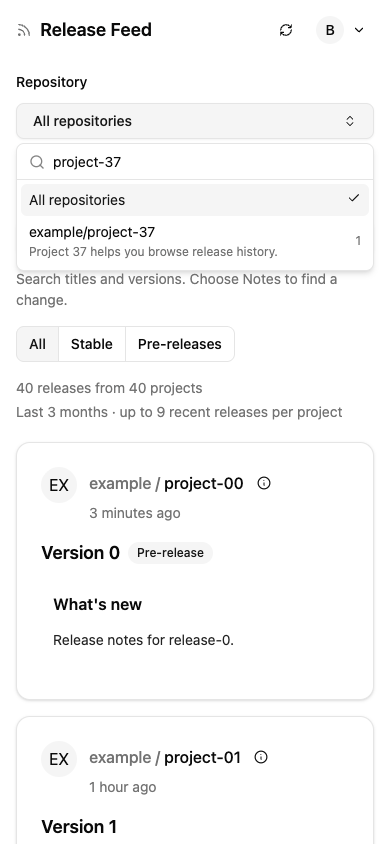
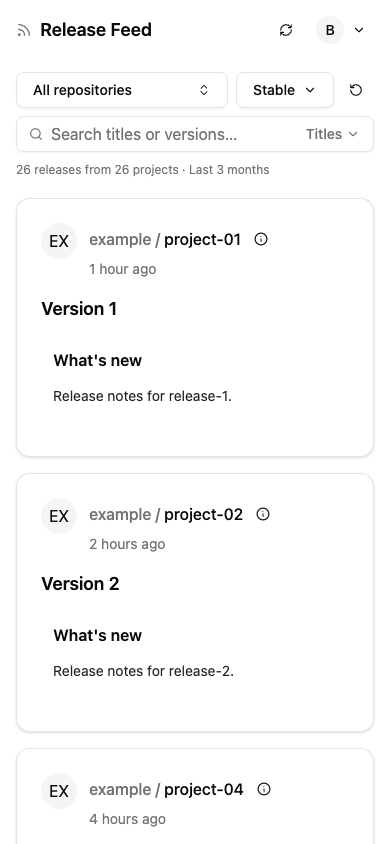
fix: keep feed filters in a compact toolbar
Persistent labels and helper text gave simple filters more space than
the release feed. Align the controls in one desktop row and show search
explanations in its menu. Use a compact type menu on smaller screens
and reserve a full-width search row for narrow viewports.

diff --git a/app/pages/index.vue b/app/pages/index.vue
@@ -158,54 +158,53 @@ useHead({
           >
         </Card>
         <template v-else>
-          <div class="flex flex-col gap-4 pt-3">
-            <FieldGroup class="grid gap-4 sm:grid-cols-2">
-              <Field>
-                <FieldLabel for="repository-filter">Repository</FieldLabel>
-                <RepositoryFilter v-model="selectedRepository" :repositories="repositoryOptions" />
-                <FieldDescription
-                  >Projects with releases in the last three months.</FieldDescription
-                >
-              </Field>
-              <Field>
-                <FieldLabel for="release-search">{{
-                  searchScope === 'notes' ? 'Search release notes' : 'Find a release'
-                }}</FieldLabel>
-                <FeedSearch
-                  id="release-search"
-                  v-model="searchQuery"
-                  v-model:scope="searchScope"
-                  :searching="isSearching || searchingNotes"
-                />
-                <FieldDescription id="release-search-hint">{{
-                  searchScope === 'notes'
-                    ? 'Find a change across notes in your current filters.'
-                    : 'Search titles and versions. Choose Notes to find a change.'
-                }}</FieldDescription>
-              </Field>
-            </FieldGroup>
-            <div class="flex flex-wrap items-center justify-between gap-3">
-              <ReleaseFilters v-model="releaseType" class="w-auto" />
-              <Button v-if="hasFilters" variant="ghost" size="sm" @click="resetFilters"
-                >Reset filters</Button
-              >
-            </div>
+          <div class="flex flex-col gap-2.5 pt-3">
             <div
-              class="flex flex-wrap justify-between gap-x-4 gap-y-1 text-sm text-muted-foreground"
+              class="grid grid-cols-[minmax(0,1fr)_auto] items-center gap-2 sm:grid-cols-[minmax(0,11rem)_auto_minmax(0,1fr)]"
+              role="group"
+              aria-label="Release filters"
             >
-              <p role="status" aria-live="polite" aria-atomic="true">
-                {{
-                  isLoadingAny
-                    ? `${filteredReleases.length} releases · ${reposProcessed}${reposTotal ? ` of ${reposTotal}` : ''} projects checked…`
-                    : `${filteredReleases.length} ${filteredReleases.length === 1 ? 'release' : 'releases'} from ${projectCount} ${projectCount === 1 ? 'project' : 'projects'}`
-                }}
-              </p>
-              <p
-                title="Up to nine recent releases from each repository plus its latest stable release, published within the past three months. Full histories are available on GitHub."
-              >
-                Last 3 months · up to 9 recent releases per project
-              </p>
+              <div class="min-w-0">
+                <RepositoryFilter v-model="selectedRepository" :repositories="repositoryOptions" />
+              </div>
+              <div class="flex items-center gap-1">
+                <ReleaseFilters v-model="releaseType" />
+                <Button
+                  v-if="hasFilters"
+                  variant="ghost"
+                  size="icon"
+                  aria-label="Reset filters"
+                  title="Reset filters"
+                  @click="resetFilters"
+                  ><Icon name="lucide:rotate-ccw"
+                /></Button>
+              </div>
+              <FeedSearch
+                id="release-search"
+                v-model="searchQuery"
+                v-model:scope="searchScope"
+                class="col-span-2 sm:col-span-1"
+                :searching="isSearching || searchingNotes"
+              />
             </div>
+            <p
+              role="status"
+              aria-live="polite"
+              aria-atomic="true"
+              class="text-xs text-muted-foreground"
+              title="Projects with releases in the last three months. Up to nine recent releases per repository plus its latest stable release; full histories are available on GitHub."
+            >
+              {{
+                isLoadingAny
+                  ? `${filteredReleases.length} releases · ${reposProcessed}${reposTotal ? ` of ${reposTotal}` : ''} projects checked…`
+                  : `${filteredReleases.length} ${filteredReleases.length === 1 ? 'release' : 'releases'} from ${projectCount} ${projectCount === 1 ? 'project' : 'projects'}`
+              }}
+              <span aria-hidden="true"> · Last 3 months</span>
+              <span class="sr-only">
+                in the last three months, up to nine recent releases per repository plus its latest
+                stable release.</span
+              >
+            </p>
           </div>
           <div
             v-if="searchScope === 'notes' && debouncedSearchQuery.trim() && missingNotesCount"

diff --git a/app/components/FeedSearch.vue b/app/components/FeedSearch.vue
@@ -14,12 +14,15 @@ const scope = defineModel<SearchScope>('scope', { default: 'titles' })
       :aria-label="
         scope === 'notes' ? 'Search release notes' : 'Search release titles and versions'
       "
-      :placeholder="
-        scope === 'notes' ? 'Security, breaking, #123…' : 'Title or version, e.g. v3.5…'
-      "
+      :placeholder="scope === 'notes' ? 'Search release notes…' : 'Search titles or versions…'"
       aria-describedby="release-search-hint"
       @update:model-value="model = String($event)"
     />
+    <span id="release-search-hint" class="sr-only">{{
+      scope === 'notes'
+        ? 'Search note content within your current filters. Missing notes load automatically.'
+        : 'Search release titles and versions. Choose Notes to search for a change.'
+    }}</span>
     <InputGroupAddon><Icon name="lucide:search" /></InputGroupAddon>
     <InputGroupAddon align="inline-end">
       <Icon
@@ -40,8 +43,20 @@ const scope = defineModel<SearchScope>('scope', { default: 'titles' })
         </DropdownMenuTrigger>
         <DropdownMenuContent align="end">
           <DropdownMenuRadioGroup v-model="scope">
-            <DropdownMenuRadioItem value="titles">Titles and versions</DropdownMenuRadioItem>
-            <DropdownMenuRadioItem value="notes">Release notes</DropdownMenuRadioItem>
+            <DropdownMenuRadioItem value="titles">
+              <span class="flex flex-col gap-0.5">
+                <span>Titles and versions</span>
+                <span class="text-xs text-muted-foreground">Find a specific release</span>
+              </span>
+            </DropdownMenuRadioItem>
+            <DropdownMenuRadioItem value="notes">
+              <span class="flex flex-col gap-0.5">
+                <span>Release notes</span>
+                <span class="text-xs text-muted-foreground"
+                  >Find changes, fixes or ticket numbers</span
+                >
+              </span>
+            </DropdownMenuRadioItem>
           </DropdownMenuRadioGroup>
         </DropdownMenuContent>
       </DropdownMenu>

diff --git a/app/components/ReleaseFilters.vue b/app/components/ReleaseFilters.vue
@@ -1,14 +1,16 @@
 <script setup lang="ts">
 import { isReleaseType, type ReleaseType } from '~/lib/release-filters'
 const model = defineModel<ReleaseType>({ default: 'all' })
+const labels = { all: 'All releases', stable: 'Stable', prerelease: 'Pre-releases' }
 </script>
 
 <template>
-  <Field>
+  <div>
     <FieldTitle id="release-type-label" class="sr-only">Release type</FieldTitle>
     <ToggleGroup
       type="single"
       variant="outline"
+      class="hidden md:flex"
       :model-value="model"
       aria-labelledby="release-type-label"
       @update:model-value="
@@ -21,5 +23,26 @@ const model = defineModel<ReleaseType>({ default: 'all' })
       <ToggleGroupItem value="stable">Stable</ToggleGroupItem>
       <ToggleGroupItem value="prerelease">Pre-releases</ToggleGroupItem>
     </ToggleGroup>
-  </Field>
+    <DropdownMenu>
+      <DropdownMenuTrigger as-child>
+        <Button variant="outline" class="md:hidden" aria-label="Release type">
+          {{ labels[model] }}<Icon name="lucide:chevron-down" data-icon="inline-end" />
+        </Button>
+      </DropdownMenuTrigger>
+      <DropdownMenuContent align="end">
+        <DropdownMenuRadioGroup
+          :model-value="model"
+          @update:model-value="
+            (value) => {
+              if (isReleaseType(value)) model = value
+            }
+          "
+        >
+          <DropdownMenuRadioItem value="all">All releases</DropdownMenuRadioItem>
+          <DropdownMenuRadioItem value="stable">Stable</DropdownMenuRadioItem>
+          <DropdownMenuRadioItem value="prerelease">Pre-releases</DropdownMenuRadioItem>
+        </DropdownMenuRadioGroup>
+      </DropdownMenuContent>
+    </DropdownMenu>
+  </div>
 </template>

diff --git a/app/components/RepositoryFilter.vue b/app/components/RepositoryFilter.vue
@@ -44,7 +44,10 @@ watch(open, () => {
         </Button>
       </ComboboxTrigger>
     </ComboboxAnchor>
-    <ComboboxList align="start" class="w-(--reka-combobox-trigger-width) max-w-[calc(100vw-2rem)]">
+    <ComboboxList
+      align="start"
+      class="w-(--reka-combobox-trigger-width) max-w-[calc(100vw-2rem)] min-w-72"
+    >
       <ComboboxInput
         :display-value="() => ''"
         :model-value="query"

diff --git a/docs/feed-ux.md b/docs/feed-ux.md
@@ -16,13 +16,23 @@ Der ausdrücklich gewählte Modus **Release notes** durchsucht den Inhalt der No
 
 Repo-Auswahl, Release-Typ und Suche wirken gemeinsam. Ergebniszahl, Zurücksetzen, Notes-Abruf und leerer Zustand berücksichtigen dieselbe Auswahl.
 
+## Kompakte Filterleiste
+
+Die erste Umsetzung machte aus den Filtern einen Formularblock: sichtbare Labels und Hilfstexte, eine eigene Typzeile und zwei Metadatenzeilen. Das gab den Werkzeugen zu viel Gewicht gegenüber den Releases.
+
+Repo, Typ und Suche teilen sich jetzt ab 640 Pixel Bildschirmbreite eine 36 Pixel hohe Zeile mit gemeinsamen Kanten. Die zugänglichen Namen bleiben erhalten. Erläuterungen zur Suche stehen im geöffneten Suchmenü. Die Ergebniszahl und das Zeitfenster bilden eine einzelne dezente Zeile darunter. Unter 768 Pixel ersetzt ein Typmenü die breite Toggle-Gruppe; unter 640 Pixel nimmt die Suche eine eigene volle Zeile ein. Zurücksetzen erscheint als Icon nur bei aktiven Filtern.
+
+Bei 1280 Pixel Bildschirmbreite sank die Höhe des gesamten Filterbereichs einschließlich Ergebniszahl von 200,25 auf 74 Pixel. [Vorher](feed-toolbar-before.png) und [nachher](feed-toolbar-desktop.png) zeigen denselben Feed mit Testdaten.
+
 ## Prüfung
 
 `bun run check` besteht mit 48 Tests; der Produktionsbuild besteht ebenfalls. Neue Regressionstests wurden mit gezielten Fehlern rot geprüft: Titel-Treffer verändern sich durch nachgeladene Notes nicht, Repo-Auswahl wirkt zusammen mit Release-Typ und Notes-Suche, Notes-Suche findet keine Versionsnamen, der Treffer-Ausschnitt zeigt eine versteckte Fundstelle, und Repo-Optionen unterscheiden gleichnamige Projekte verschiedener Owner ohne Duplikate. Der bisherige allgemeine Suchtest wurde an den absichtlich eingeschränkten Suchumfang angepasst.
 
 Im Browser wurde der Produktionsbuild mit API-Testdaten geprüft: Repo-Auswahl per Tastatur, Wechsel zwischen Titel- und Notes-Suche, kombinierte Filter, Zurücksetzen und 390 Pixel Bildschirmbreite ohne horizontalen Überlauf. Ein simulierter HTTP-503-Fehler zeigte vorhandene Treffer und 36 noch ungesuchte Notes; der erneute Abruf vervollständigte die Ergebnisse. Dies ersetzt keinen OAuth-Durchlauf mit einem echten Konto.
 
-Die [mobile Ansicht](repository-filter-mobile.png) zeigt die Repo-Auswahl mit Testdaten.
+Die kompakte Leiste wurde zusätzlich bei 320, 390, 640, 768 und 1280 Pixel Bildschirmbreite ohne horizontalen Überlauf geprüft, auch mit aktiven Filtern und ausgewähltem Repo. Mobile Typauswahl, Tastaturauswahl eines Repos, Notes-Suche und Zurücksetzen funktionieren im Produktionsbuild. Die helle und dunkle Darstellung wurde visuell geprüft. Für diese Layoutkorrektur wurden keine neuen Unit-Tests ergänzt; Browserprüfung deckt den visuellen Fehler und die neue mobile Bedienung ab.
+
+Die [mobile Ansicht](repository-filter-mobile.png) zeigt die kompakte Leiste mit Testdaten.
 
 ## Nächste sinnvolle Erweiterungen
 
